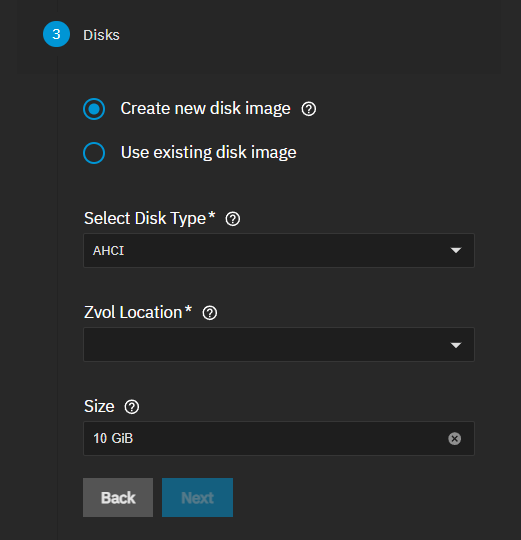
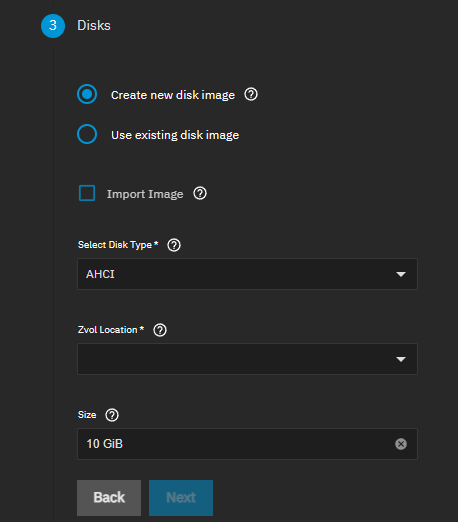
PD-2328 / 25.10 / Pd 2328 document vm import and export options (#4367)
* Update _index.md

* Update AddManageVMDevicesSCALE.md

* Update VirtualMachinesScreens.md

* Update CreateVirtualMachinesDisksSettings.png

* Create ImportDiskImageSettings.png

* Update NetworkInterfaceScreens.md

* Apply suggestions from Vale review

* additional review edits

* Update _index.md

* Update AddManageVMDevicesSCALE.md

* Update NetworkInterfaceScreens.md

* Update VirtualMachinesScreens.md

* PD-2430 / 26.04 / Pd 2430 add warnings to the documentation regarding invalid worgroup domain names (#4361)

* Update ConfigADSCALE.md

* Update ManagingGlobalConfig.md

* Update SMBServiceSCALE.md

* Update ActiveDirectory.md

* Update GlobalConfigurationScreens.md

* Update SMBServicesScreen.md

* Create NetBIOSValidationWarning.md

* Update ConfigADSCALE.md

* Update ManagingGlobalConfig.md

* Update SMBServiceSCALE.md

* Update ActiveDirectory.md

* Update GlobalConfigurationScreens.md

* Update ConfigADSCALE.md

* Update ActiveDirectory.md

* Update SMBServiceSCALE.md

---------

(cherry picked from commit ca2e9537932cbd31b2b00728c12021617989b574)

* Update _index.md

* Update VirtualMachinesScreens.md

* Revert "Merge branch 'PD-2328-document-vm-import-and-export-options' of https://github.com/truenas/documentation into PD-2328-document-vm-import-and-export-options"

This reverts commit d26d7a941b40f14142e8d237ee4c2a5d6652aa17, reversing
changes made to 389c97dd69deeed1dab707833a6ecc56518e313b.

* Update ManagingGlobalConfig.md
[…]

diff --git a/content/SCALEUIReference/VirtualMachinesScreens.md b/content/SCALEUIReference/VirtualMachinesScreens.md
@@ -29,7 +29,8 @@ Expanding a VM shows the [details screen](#virtual-machine-details-screen) detai
 ## Virtual Machine Details Screen
 
 The expanded **Virtual Machines** screen shows the details and options for a VM.
-Details include the basic information on the number of virtual CPUs, cores, and threads, the amount of memory, boot loader, and system clock types, the display port number, and the shutdown timeout in seconds.
+Details include the basic information on the number of virtual CPUs, cores, threads, the amount of memory, the boot loader, and system clock types.
+Additional details include the display port number and the shutdown timeout in seconds.
 
 {{< trueimage src="/images/SCALE/Virtualization/VirtualMachinesScreenwithVMDetails.png" alt="VM Details" id="VM Details" >}}
 
@@ -137,7 +138,7 @@ The **Devices** screen shows a table listing of VM devices configured on your sy
 
 **Add** opens the [**Add Device**](#devices-add-screens) screen. Settings change based on the various device types.
 
-The <span class="material-icons">more_vert</span> at the right of each device row has three options:
+The <span class="material-icons">more_vert</span> at the right of each device row shows options for that device:
 
 * **Edit** - Opens the **Edit *type* Device** screen where *type* is the device type selected.
   Settings vary based on the type of device selected in **Device Type**. See **[Add Device](#devices-add-screens)** screen.
@@ -146,6 +147,8 @@ The <span class="material-icons">more_vert</span> at the right of each device ro
 * **Delete** - Opens the **Delete Device** dialog.
 
 * **Details** - Opens an information dialog showing the port, type, bind IP, and other details about the device.
+
+* **Export to Image** - Shows only for disk devices. Opens the **[Export Disk to Image](#export-disk-to-image-window)** window to convert the disk (zvol) to a portable disk image file in QCOW2, QED, RAW, VDI, VHDX, or VMDK format.
 
 ## Create Virtual Machine Wizard Screens
 
@@ -189,7 +192,7 @@ The **CPU and Memory** settings specify the CPU mode, model, and memory size. Th
 
 ### Disks Settings
 
-The **Disks** settings specify how virtual disks are added. Options are creating a new zvol on an existing dataset for a disk image, or using an existing zvol or file for the VM.
+The **Disks** settings specify how virtual disks are added. Options are creating a new zvol on an existing dataset for a disk image, using an existing zvol for the VM, or importing an existing disk image file (QCOW2, QED, RAW, VDI, VHDX, VMDK) and converting it to a zvol.
 
 {{< trueimage src="/images/SCALE/Virtualization/CreateVirtualMachinesDisksSettings.png" alt="Disks Settings" id="Disks Settings" >}}
 
@@ -197,12 +200,14 @@ The **Disks** settings specify how virtual disks are added. Options are creating
 {{< truetable >}}
 | Setting | Description |
 |---------|-------------|
-| **Create new disk image** | Shows settings to create a new zvol on an existing dataset to use as a virtual hard drive for the VM. |
-| **Use existing disk image** | Shows settings to select an existing zvol or file for the VM. Shows the **Select Disk Type** and **Select Existing Zvol**  fields. |
+| **Create new disk image** | Shows settings to create a new zvol on an existing dataset to use as a virtual hard drive for the VM. Displays the **Select Disk Type**, **Zvol Location**, and **Size** fields. |
+| **Use existing disk image** | Shows settings to select an existing zvol for the VM. Displays the **Select Disk Type** and **Select Existing Zvol** fields. |
+| **Import Image** | Checkbox option to import an existing disk image file and convert it to a zvol for VM use. When you select this option, the **Image Source** field displays. Supports QCOW2, QED, RAW, VDI, VHDX, and VMDK formats with automatic format detection. |
+| **Image Source** | (Required) Displays when you select **Import Image**. Browse to and select the source disk image file to import. The system automatically detects the image format from the file. |
 | **Select Disk Type** | Sets the disk type to the option selected on the dropdown list. Options are **AHCI** or **VirtIO**. Select **AHCI** for Windows VMs. **VirtIO** requires a guest OS that supports VirtIO paravirtualized network drivers. |
 | **Select Existing Zvol** | (Required) Shows after selecting **Use existing disk image**. Sets the disk to the existing zvol selected from the dropdown list. |
-| **Zvol Location** | (Required) Shows when **Create new disk image** is selected. Shows a dropdown list of datasets to select as the location where a new zvol is created. |
-| **Size** | (Required) Shows when **Create new disk image* is selected. Allocates space for the new zvol. (Examples: 500 KiB, 500M, 2 TB). Units smaller than MiB are not allowed. |
+| **Zvol Location** | (Required) Shows a dropdown list of datasets to select as the location where the system creates a new zvol. When you select **Import Image**, this specifies the destination dataset for the converted zvol. When you select **Create new disk image**, this specifies where the system creates the new zvol. |
+| **Size** | (Required) Shows when **Create new disk image** is selected. Allocates space for the new zvol. (Examples: 500 KiB, 500M, 2 TB). Units smaller than MiB are not allowed. |
 {{< /truetable >}}
 {{< /expand >}}
 
@@ -379,16 +384,16 @@ Shows the USB passthrough device setting when **Device Type** is set to **USB Pa
 
 ### Export Disk to Image Window
 
-The **Export Disk to Image** window shows a file browser and other settings to export the selected disk to create a VM disk image that you can then specify later as a zvol for use by a VM. It is accessed from a disk device on the **Devices** screen.
+The **Export Disk to Image** window shows a file browser and other settings to convert a VM disk (zvol) to a portable disk image file. You access it from a disk device on the **Devices** screen.
 
 {{< trueimage src="/images/SCALE/Virtualization/ExportDiskToImageWindow.png" alt="Export Disk to Image" id="Export Disk to Image" >}}
 
 {{< truetable >}}
 | Setting | Description |
 |---------|-------------|
-| **Destination Directory** | Sets the path to the desired dataset/directory where you want to export the image file. Enter the mount path, or use the file browser to browse to and select the mount path. Clicking on the dataset/directory selects it and populates the blank field directly above the file browser field. |
-| **Image Name** | Show the name for the exported image file. The appropriate extension is added automatically based on the format selected in **Image Format**. |
-| **Image Format** | Sets the type of image created and adds the file extension the name in **Image Name**. Options are: <br><li>**QCOW2 - QEMU Copy On Write** <br><li>**QED - QUEM Enhanced Disk** <br><li>**RAW - Raw Disk Image** <br><li>**VDI - Virtual Box Disk**, which is the default for disks in TrueNAS VM. <br><li>**VHDX - Hyper-V Virtual Hard Disk** <br><li>**VMDX - VMware Virtual Machine Disk**</li> |
+| **Destination Directory** | Sets the path to the desired dataset/directory where you want to export the image file. Enter the mount path, or use the file browser to browse to and select the mount path. When you click on the dataset/directory, the system selects it and populates the blank field directly above the file browser field. |
+| **Image Name** | Shows the name for the exported image file. The system automatically adds the appropriate file extension based on the format you select in **Image Format**. |
+| **Image Format** | Sets the type of image the system creates and adds the file extension to the name in **Image Name**. Options are: <br><li>**QCOW2 - QEMU Copy On Write** <br><li>**QED - QEMU Enhanced Disk** <br><li>**RAW - Raw Disk Image** <br><li>**VDI - VirtualBox Disk Image** <br><li>**VHDX - Hyper-V Virtual Hard Disk** <br><li>**VMDK - VMware Virtual Machine Disk**</li> |
 {{< /truetable >}}
 
 {{<include file="/static/includes/addcolumnorganizer.md">}}

diff --git a/content/SCALEUIReference/Credentials/DirectoryServices/ActiveDirectory.md b/content/SCALEUIReference/Credentials/DirectoryServices/ActiveDirectory.md
@@ -40,8 +40,9 @@ The edit version of the **Basic Options** screen only shows options you can edit
 {{< truetable >}}
 | Setting | Description |
 |---------|-------------|
-| **Domain Name** | (Required) Enter the Active Directory domain name (example.com) or child domain (sales.example.com) if configuring TrueNAS with access to a limited portion of your configuration. This is the name of the domain with all the user and group objects TrueNAS accesses. Editable after saving. |
-| **Domain Account Name** | (Required) Enter the bindname TrueNAS should use as the account name. The default value is **Administrator**. TrueNAS creates this account after domain joins. Not editable after saving. |
+| **TrueNAS Hostname** | Enter the hostname for the TrueNAS system. The hostname can be found on the **System > Network** screen. The name cannot exceed 15 characters. Cannot contain: `\ / : * ? " < > |`. Cannot use Microsoft or RFC 852 reserved words (ANONYMOUS, AUTHENTICATED USER, BATCH, BUILTIN, DIALUP, DOMAIN, ENTERPRISE, INTERACTIVE, INTERNET, LOCAL, NETWORK, NULL, PROXY, RESTRICTED, SELF, SERVER, USERS, WORLD, GATEWAY, GW, TAC). Must differ from the Workgroup name. TrueNAS 25.04 and later enforce these restrictions through validation. |
+| **Domain Name** | (Required) Enter the Active Directory domain name (example.com) or child domain (sales.example.com) if configuring TrueNAS with access to a limited portion of your configuration. This is the name of the domain with all the user and group objects that TrueNAS accesses. Editable after saving. |
+| **Domain Account Name** | (Required) Enter the bindname TrueNAS should use as the account name. The default value is **Administrator**. TrueNAS creates this account after the domain joins. Not editable after saving. |
 | **Domain Account Password** | (Required) Enter the bindpw password for the account. Required the first time you configure a domain. After initial configuration, the password is not needed to edit, start, or stop the service. After the initial configuration or joining, TrueNAS uses the **Kerberos Principal** instead of the password. |
 | **NetBIOS Name** | Enter the hostname of the TrueNAS system, found on the **Edit Global Configuration** screen in the **Hostname** field. The default value is **TRUENAS**. The name must not exceed 15 characters, including spaces, and must differ from the Workgroup name. The Workgroup name is a label used to identify a group of computers on a local network that share resources and are part of a peer-to-peer networking model. |
 | **Enable (requires password or Kerberos principal)** | Select to enable the Active Directory service in TrueNAS. TrueNAS populates the **Kerberos Realm** and **Kerberos Principal** fields with what it discovers in AD. Clear to disable Active Directory. After disabling Active Directory, the **[Directory Services]({{< ref "/SCALEUIReference/Credentials/DirectoryServices" >}})** screen returns to the default and shows the options to configure AD or LDAP. TrueNAS creates a Kerberos realm and keytab from what it detects in Active Directory, then populates the **Kerberos Realm** and **Kerberos Principal** settings on the **Advanced Options** screen. |
@@ -64,11 +65,11 @@ The **Advanced Options** screen shows both the basic and advanced option setting
 | **AD Timeout** | Enter the number of seconds before timeout. To view the AD connection status, go to **Task Manager > *History** to open the **Jobs** screen. |
 | **DNS Timeout** | Enter the number of seconds before a timeout. Increase this value if AD DNS queries time out. |
 | **Winbind NSS Info** | Winbind NSS specifies the method used by Winbind to retrieve user and group information. Select the schema to use when querying AD for user/group info. Options:<br><li>**TEMPLATE** - (default) Select to use a template to construct user and group entries based on attributes. Other options:<br><li>**rfc2307** - Select to use the RFC 2307 schema, Windows 2003 R2 schema support.<br><li>**sfu** - Select to use the Service for Unix 3.0 or 3.5 schema to access Unix attributes in Active Directory.<br><li>**sfu20** - Select to use the Service for Unix 2.0 schema to access Unix attributes in Active Directory.</li> |
-| **NetBIOS Alias** | Alternative names that SMB clients can use when connecting to this NAS. Names must not exceed 15 characters. |
-|**Enable (requires password or Kerberos principle)** | Select to enable AD service. The first time you select this option you must enter the password for the domain admin account. After selecting **Enable (requires password or Kerberos principal)**, TrueNAS populates the **Kerberos Realm** and **Kerberos Principal** fields with what it discovered in AD. |
+| **NetBIOS Alias** | Alternative names that SMB clients can use when connecting to this NAS (maximum 15 characters each). Cannot contain: `\ / : * ? " < > |`. Cannot use Microsoft or RFC 852 reserved words. TrueNAS 25.04 and later enforce these restrictions through validation. |
+|**Enable (requires password or Kerberos principle)** | Select to enable AD service. The first time you select this option, you must enter the password for the domain admin account. After selecting **Enable (requires password or Kerberos principal)**, TrueNAS populates the **Kerberos Realm** and **Kerberos Principal** fields with what it discovered in AD. |
 | **Verbose Logging** | Select to increase logging verbosity related to the Active Directory service in <file>/var/log/midlewared.log</file>. |
 | **Allow Trusted Domains** | Allows clients to access the TrueNAS server if they are members of domains that have a trust relationship with the domain to which TrueNAS is joined. Starting in TrueNAS 25.10, trusted domains are configured as part of the directory services configuration rather than as separate IDmap entries. |
-| **Use Default Domain** | AD users and groups by default have a domain name prefix (`DOMAIN\`). In some edge cases, this might cause erratic behavior from some clients and applications that are poorly designed and cannot handle the prefix. Select only if required for a specific application or client. Note that using this setting is not recommended as it may cause collisions with local user account names.  |
+| **Use Default Domain** | AD users and groups by default have a domain name prefix (`DOMAIN\`). In some edge cases, this might cause erratic behavior from some clients and applications that are poorly designed and cannot handle the prefix. Select only if required for a specific application or client. Note that using this setting is not recommended as it can cause collisions with local user account names.  |
 | **Allow DNS Updates** | Select to enable Samba to do DNS updates when joining a domain. Selected by default. |
 | **Disable AD User/Group Cache** | TrueNAS maintains a cache of users and groups for API consumers (including the WebUI). This is a convenience feature that might be disabled if the domain contains large numbers of users and groups, or if caching generates excessive load on the domain controller. Select to disable caching AD users and groups. |
 | **Restrict PAM** | Select to restrict SSH access in certain circumstances to members in BUILTIN\\Administrators. Pluggable Authentication Module (PAM) enables systems to authenticate users against AD credentials. |

diff --git a/content/SCALETutorials/Credentials/DirectoryServices/ConfigADSCALE.md b/content/SCALETutorials/Credentials/DirectoryServices/ConfigADSCALE.md
@@ -41,6 +41,8 @@ Enter the password for this account.
 
 After taking these actions, you can [connect to the Active Directory domain](#connecting-to-the-active-directory-domain).
 
+{{< include file="/static/includes/NetBIOSValidationWarning.md" >}}
+
 ### Setting Time Synchronization
 Active Directory relies on the time-sensitive [Kerberos](https://tools.ietf.org/html/rfc1510) protocol.
 TrueNAS adds the AD domain controller with the [PDC Emulator FSMO Role](https://support.microsoft.com/en-us/help/197132/active-directory-fsmo-roles-in-windows) as the preferred NTP server during the domain join process.
@@ -65,7 +67,7 @@ Or
 
 Before you begin, modify the system DNS server settings.
 Take a screenshot of your current settings to refer to if you need to revert to pre-AD settings for any reason.
-Change the nameserver 1 setting to the IP address of the AD sever and clear the other name server settings.
+Change the nameserver 1 setting to the IP address of the AD server and clear the other name server settings.
 Make sure the domain name is set to something other than the default value **truenas**.
 
 To connect TrueNAS to Active Directory:
@@ -90,7 +92,7 @@ To connect TrueNAS to Active Directory:
 
 5. Enter the **IDMAP Configuration** settings.
    - By default, **Use TrueNAS Server IDMAP Defaults** is selected.
-   - To customize IDMAP settings, uncheck **Use TrueNAS Server IDMAP Defaults** to reveal additional configuration options:
+   - To customize IDMAP settings, clear **Use TrueNAS Server IDMAP Defaults** to reveal additional configuration options:
    - **Builtin** section with optional **Name** field and required **Range Low** and **Range High** fields.
    - **IDMAP Domain** section with required **IDMAP Backend**, **Name**, **Range Low**, and **Range High** fields.
 
@@ -110,9 +112,9 @@ Joining AD also adds default Kerberos realms and generates a default **AD_MACHIN
 TrueNAS automatically begins using this default keytab and removes any administrator credentials stored in the TrueNAS configuration file.
 
 ### Troubleshooting - Resyncing the Cache
-If the cache becomes out of sync or fewer users than expected are available in the permissions editors, resync it by clicking **Settings** in the **Active Directory** window and then click **Rebuild Directory Service Cache**.
+If the cache becomes out of sync or fewer users than expected are available in the permissions editors, click **Settings** in the **Active Directory** window, then click **Rebuild Directory Service Cache** to resync the cache.
 
-The name in **NetBIOS Name** should match the name in **Hostname** on the **Global Configuration** settings screen.
+The name in **TrueNAS Hostname** should match the name in **Hostname** on the **System > Network** screen.
 
 ## Disabling Active Directory
 To disable your AD server connection without deleting your configuration or leaving the AD domain, click **Settings** to open the **Active Directory** settings screen.
@@ -124,7 +126,7 @@ Click **Configure Active Directory** to open the **Active Directory** screen wit
 Select **Enable** again, and click **Save** to reactivate your connection to your AD server.
 
 ## Leaving Active Directory
-TrueNAS requires users to cleanly leave an Active Directory to delete the configuration.
+Users must cleanly leave an Active Directory for TrueNAS to delete the configuration.
 To cleanly leave AD, click **Leave Domain** on the **Active Directory Advanced Settings** screen to remove the AD object.
 Remove the computer account and associated DNS records from the Active Directory.
 

diff --git a/content/SCALEUIReference/Network/GlobalConfigurationScreens.md b/content/SCALEUIReference/Network/GlobalConfigurationScreens.md
@@ -16,7 +16,7 @@ The **Network Configuration** widget shows the general networking settings for t
 
 The remaining general network settings shown in the widget are the system host name, domain name, HTTP proxy address, any configured service announcement, additional domains, the host name database, and the outbound network setting.
 
-**Settings** opens the **Edit Global Configuration** screen where you can add or change global network settings for the TrueNAS system.
+**Settings** opens the **Edit Global Configuration** screen, where you can add or change global network settings for the TrueNAS system.
 
 {{< include file="/static/includes/NetworkWarn.md" >}}
 
@@ -37,8 +37,8 @@ Some fields only show in the **Edit Global Configuration** screen when the appro
 {{< truetable >}}
 | Setting | Description |
 |---------|-------------|
-| **Hostname** | Sets the system host name. The default value is **truenas**. Some applications require setting this to a value other than **truenas**. |
-| **Inherit domain from DHCP** | Sets the domain is inherited from DHCP when selected. |
+| **Hostname** | Sets the system host name. The default value is **truenas**. Some applications require setting this to a value other than **truenas**. If using Active Directory or SMB services, the hostname is also used as the NetBIOS name and must comply with NetBIOS naming restrictions: maximum 15 characters, cannot contain `\ / : * ? " < > |`, and cannot use Microsoft or RFC 852 reserved words. TrueNAS 25.04 and later enforce these restrictions through validation. |
+| **Inherit domain from DHCP** | Sets the domain to be inherited from DHCP when selected. |
 | **Hostname (TrueNAS Controller 2)** | Sets the system host name for a second controller in High Availability (HA) systems where there is a second TrueNAS controller. A name can consist of upper and lower case alphanumeric and allowed special characters dot (.) and/or dash (-). |
 | **Hostname (Virtual)** | Sets a virtual host name that shows when using a virtual host, for example, on a TrueNAS High Availability system. Also used as the Kerberos principal name. Enter the fully qualified host name plus the domain name. A name can consist of upper and lower case alphanumeric and the allowed special characters, dot (.) and/or dash (-). |
 | **Domain** | Enter a system domain name, for example, *example.com*. |
@@ -75,8 +75,8 @@ Some fields only show in the **Edit Global Configuration** screen when the appro
 
 ### Outbound Network and Other Settings
 
-The **Outbound Network** setting should matches preferred system services allowed to communicate externally for your use case.
-The **Other Settings** allow setting an HTTP proxy, and any host name database preferences.
+The **Outbound Network** setting should match the preferred system services allowed to communicate externally for your use case.
+The **Other Settings** allow setting an HTTP proxy and any host name database preferences.
 
 {{< trueimage src="/images/SCALE/Network/GlobalConfigOutboundSettings.png" alt="Global Configuration Outbound Settings" id="Global Configuration Outbound Settings" >}}
 

diff --git a/content/SCALETutorials/SystemSettings/Services/SMBServiceSCALE.md b/content/SCALETutorials/SystemSettings/Services/SMBServiceSCALE.md
@@ -26,6 +26,8 @@ Enter any alias name or names that do not exceed 15 characters in the **NetBIOS 
 
 Enter a name that matches the Windows workgroup name in **Workgroup**. TrueNAS detects and sets the correct workgroup from these services when unconfigured with enabled Active Directory or LDAP active.
 
+{{< include file="/static/includes/NetBIOSValidationWarning.md" >}}
+
 If using SMB1 clients, select **Enable SMB1 support** to allow legacy SMB1 clients to connect to the server. Note: SMB1 is deprecated. We advise upgrading clients to operating system versions that support modern SMB protocols.
 
 If you plan to use the insecure and vulnerable NTLMv1 encryption, select **NTLMv1 Auth** to allow [smbd](https://www.samba.org/samba/docs/current/man-html/smbd.8.html) attempts to authenticate users.
@@ -56,17 +58,17 @@ Click in the **Transport Encryption Behavior** field to select the option and be
 * **Required - always encrypt transport (rejecting access if client does not support encryption - incompatible with SMB1 server `enable_smb1`)**
 
 Select the **Default** option to use the TrueNAS current behavior.
-If set to default, there is not a technical limitation preventing an SMB client from negotiating an encrypted session if it is required.
+If set to default, there is no technical limitation preventing an SMB client from negotiating an encrypted session if required.
 
-If concerned about having Windows SMB clients always using signing in your environment, make a GPO change on the client side to always sign SMB2+ traffic.
+If you are concerned about having Windows SMB clients always using signing in your environment, make a GPO change on the client side to always sign SMB2+ traffic.
 This defaults to the Windows settings **digitally sign communications (always)** and to **off**.
 
-For more information on Windows SMB-client side transport encryption see [Windows SMB Signing Policies](https://learn.microsoft.com/en-us/troubleshoot/windows-server/networking/overview-server-message-block-signing#policy-locations-for-smb-signing).
+For more information on Windows SMB-client side transport encryption, see [Windows SMB Signing Policies](https://learn.microsoft.com/en-us/troubleshoot/windows-server/networking/overview-server-message-block-signing#policy-locations-for-smb-signing).
 
 ## Auditing SMB Events
 
 To monitor SMB service event logs, such as when a client attempts to authenticate to the share, use the TrueNAS [auditing screen]({{< ref "auditingscale" >}}).
-Go to **System > Audit** to review event logs including SMB connect, disconnect, create, read or write events, and others.
+Go to **System > Audit** to review event logs, including SMB connect, disconnect, create, read or write events, and others.
 
 Enter `SMB` in the [search bar]({{< ref "auditingscale.md#searching-audit-logs" >}}) to view only SMB service logs or use the advanced search to further limit results.
 

diff --git a/content/SCALEUIReference/SystemSettings/Services/SMBServicesScreen.md b/content/SCALEUIReference/SystemSettings/Services/SMBServicesScreen.md
@@ -24,9 +24,9 @@ Click **Save** or **Cancel** to close the configuration screen and return to the
 {{< truetable >}}
 | Setting | Description |
 |---------|-------------|
-| **NetBIOS Name** | Automatically populates with the original system host name. Enter a name that does not exceed 15 characters that is not the same as the **Workgroup** name. |
-| **NetBIOS Alias** | Enter any alias name that does not exceed 15 characters in length. If entering multiple aliases, separate alias names with a space between them. |
-| **Workgroup** | Enter a name that matches the Windows workgroup name. If you do not configure a workgroup, and Active Directory or LDAP is active, TrueNAS detects and sets the correct workgroup from these services. |
+| **NetBIOS Name** | Enter the NetBIOS name for the TrueNAS system (maximum 15 characters). Cannot contain: `\ / : * ? " < > |`. Cannot use Microsoft or RFC 852 reserved words. Must differ from the **Workgroup** name. TrueNAS 25.04 and later enforce these restrictions. Automatically populates with the original system hostname. |
+| **NetBIOS Alias** | Enter alias names (maximum 15 characters each). Cannot contain: `\ / : * ? " < > |`. Cannot use Microsoft or RFC 852 reserved words. TrueNAS 25.04 and later enforce these restrictions. Separate multiple aliases with a space between them. |
+| **Workgroup** | Enter a name that matches the Windows workgroup name (maximum 15 characters). Cannot contain: `\ / : * ? " < > |`. Cannot use Microsoft or RFC 852 reserved words. TrueNAS 25.04 and later enforce these restrictions. If you do not configure a workgroup and Active Directory or LDAP is active, TrueNAS detects and sets the correct workgroup from these services. |
 | **Description** | (Optional) Enter any notes or descriptive details about the service configuration. |
 | **Enable SMB1 support** | Select to allow legacy SMB1 clients to connect to the server (see caution below). SMB audit logging does not work when using SMB1. |
 | **NTLMv1 Auth** | Off by default. Select to allow [smbd](https://www.samba.org/samba/docs/current/man-html/smbd.8.html) attempts to authenticate users with the insecure and vulnerable NTLMv1 encryption. This setting allows backward compatibility with older versions of Windows, but we do not recommend it. Do not use on untrusted networks. |

diff --git a/content/SCALETutorials/Network/ManagingGlobalConfig.md b/content/SCALETutorials/Network/ManagingGlobalConfig.md
@@ -19,11 +19,15 @@ Be sure to check both locations when troubleshooting network connectivity issues
 
 Use the **Network Configuration** widget to add general network settings like the default gateway and DNS name servers to allow external communication.
 
-To add new or change existing network interfaces see [Interface Configurations]({{< ref "/SCALETutorials/Network/Interfaces" >}}).
+To add new or change existing network interfaces, see [Interface Configurations]({{< ref "/SCALETutorials/Network/Interfaces/" >}}).
 
 Go to **System > Network**, and click **Settings** on the **Network Configuration** widget to open the **Edit Global Configuration** screen.
 
 1. Enter the host name for your TrueNAS in **Hostname**. For example, replace the default value *truenas* with something like *localnas*.
+
+   {{< hint type=note >}}
+   If you plan to use Active Directory or SMB services, the hostname is also used as the NetBIOS name and must comply with NetBIOS naming restrictions: maximum 15 characters, cannot contain `\ / : * ? " < > |`, and cannot use Microsoft or RFC 852 reserved words (ANONYMOUS, AUTHENTICATED USER, BATCH, BUILTIN, DIALUP, DOMAIN, ENTERPRISE, INTERACTIVE, INTERNET, LOCAL, NETWORK, NULL, PROXY, RESTRICTED, SELF, SERVER, USERS, WORLD, GATEWAY, GW, TAC). TrueNAS 25.04 and later enforce these restrictions through validation.
+   {{< /hint >}}
 
    {{< trueimage src="/images/SCALE/Network/GlobalConfigHostAndDomainNameSettings.png" alt="Global Configuration Host and Domain Name Settings" id="Global Configuration Host and Domain Name Settings" >}}
 
@@ -56,7 +60,7 @@ Go to **System > Network**, and click **Settings** on the **Network Configuratio
 
 6. Click **Save**. The **Network Configuration** widget on the **Network** screen shows the new settings.
 
-<!-- Commenting out this section until more information on what each service allows or requires, then use a snippet for this content in the UI ref and here.
+<!-- Commenting out this section until more information on what each service allows or requires, then use a snippet for this content in the UI  and here.
 ## Setting Up External Communication for Services
 
 Use the **Global Configuration Outbound Network** settings to add services for external communication capability.

diff --git a/content/SCALETutorials/VirtualMachines/AddManageVMDevicesSCALE.md b/content/SCALETutorials/VirtualMachines/AddManageVMDevicesSCALE.md
@@ -159,7 +159,8 @@ After stopping the VM and clicking **Devices** to open the **Devices** screen:
 
 ### Exporting a Disk to an Image
 
-You can use this function to create a VM disk image that you can then specify later as a zvol for use by a VM.
+Use this function to convert a VM disk (zvol) to a portable disk image file.
+Exported images can be imported into other VMs, transferred to different systems, or used as backups.
 
 After stopping the VM and clicking **Devices** to open the **Devices** screen:
 
@@ -167,9 +168,11 @@ After stopping the VM and clicking **Devices** to open the **Devices** screen:
 
    {{< trueimage src="/images/SCALE/Virtualization/ExportDiskToImageWindow.png" alt="Export Disk to Image" id="Export Disk to Image" >}}
 
-2. Browse to select the dataset/directory using the file browser, click on the dataset/directory to select it, and populate the mount path field.
-3. Select the image format from the **Image Format** dropdown list. Selecting the format adds the extension to the image name in **Image Name**.
-4. Click **Export**. The disk is saved as an image in the location specified in **Destination Directory**.
+2. Browse to select the dataset/directory using the file browser. Click on the dataset/directory to select it and populate the mount path field.
+3. Select the image format from the **Image Format** dropdown list.
+   Available formats include QCOW2 (QEMU Copy On Write), QED (QEMU Enhanced Disk), RAW (Raw Disk Image), VDI (VirtualBox Disk Image), VHDX (Hyper-V Virtual Hard Disk), and VMDK (VMware Virtual Machine Disk).
+   The system automatically adds the appropriate file extension to the name in **Image Name**.
+4. Click **Export**. The system saves the disk as an image in the location you specified in **Destination Directory**.
 
 ### Adding a PCI Passthrough Device
 

diff --git a/content/SCALETutorials/VirtualMachines/_index.md b/content/SCALETutorials/VirtualMachines/_index.md
@@ -103,11 +103,17 @@ If you have not yet added a virtual machine to your system, clicking **Add Virtu
 
    Select **Use existing disk image** to use an existing zvol for the VM.
 
+   (Optional) Select **Import Image** to import an existing disk image file and convert it to a zvol for use by the VM.
+
+   {{< trueimage src="/images/SCALE/Virtualization/ImportDiskImageSettings.png" alt="Import Image Options" id="Import Image Options" >}}
+
+   When you select **Import Image**, browse to and select the source disk image file in **Image Source**.
+   The system automatically detects the image format (QCOW2, QED, RAW, VDI, VHDX, or VMDK).
+   Select the destination dataset in **Zvol Location** where the system creates the converted zvol.
+
    Select either **AHCI** or **VirtIO** from the **Select Disk Type** dropdown list. We recommend using **AHCI** for Windows VMs.
 
-   Select the location for the new zvol from the **Zvol Location** dropdown list.
-
-   Enter a value in **Size (Examples: 500KiB, 500M, and 2TB)** to indicate the amount of space to allocate for the new zvol.
+   When creating a new disk image, select the location for the new zvol from the **Zvol Location** dropdown list and enter a value in **Size (Examples: 500KiB, 500M, and 2TB)** to indicate the amount of space to allocate for the new zvol.
 
    Click **Next**.
 

diff --git a/static/includes/NetBIOSValidationWarning.md b/static/includes/NetBIOSValidationWarning.md
@@ -1,0 +1,17 @@
+{{< hint type=important title="NetBIOS Name Requirements" >}}
+NetBIOS names (workgroup, domain, and computer names) are limited to 15 characters and cannot contain the following characters: `\ / : * ? " < > |`
+
+Microsoft and RFC 852 define reserved words that should not be used as NetBIOS names. TrueNAS 25.04 and later enforce these restrictions through validation.
+
+{{< expand "View complete list of reserved words" "v" >}}
+The following words cannot be used as NetBIOS names (case-insensitive):
+
+Microsoft Reserved Words:
+ANONYMOUS, AUTHENTICATED USER, BATCH, BUILTIN, DIALUP, DOMAIN, ENTERPRISE, INTERACTIVE, INTERNET, LOCAL, NETWORK, NULL, PROXY, RESTRICTED, SELF, SERVER, USERS, WORLD
+
+RFC 852 Reserved Words:
+GATEWAY, GW, TAC
+{{< /expand >}}
+
+If you encounter validation errors when joining Active Directory or configuring SMB services, verify that your NetBIOS Name, Workgroup, and Domain Name comply with these requirements.
+{{< /hint >}}
